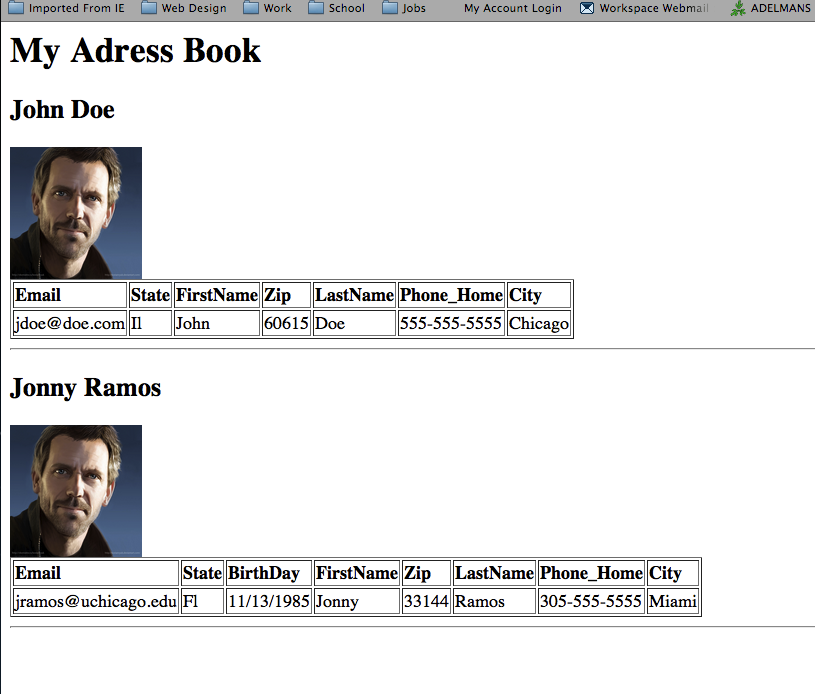
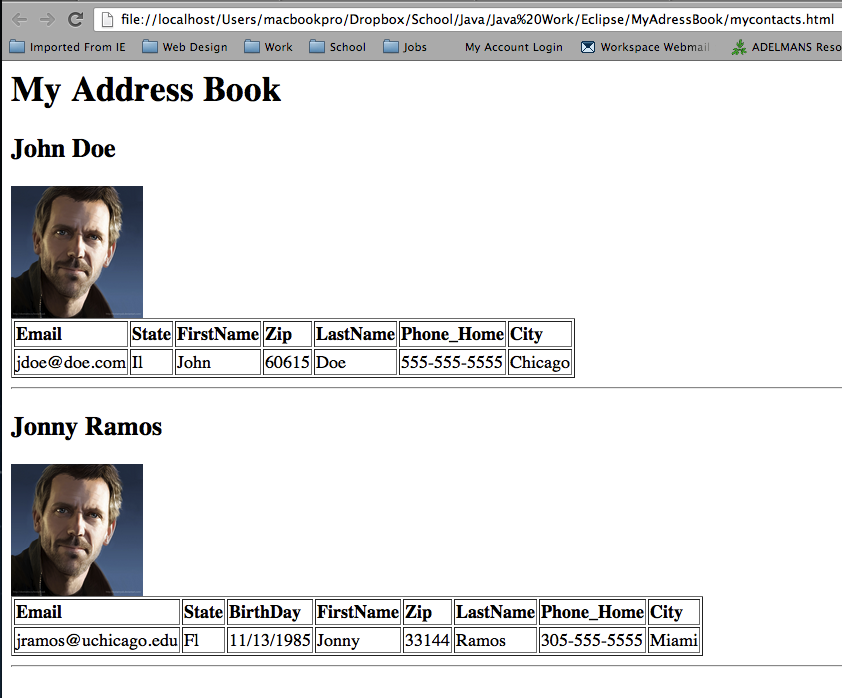
Screenshots

Changed region(s): [[0.0, 0.0, 1.0, 0.9683]]

diff --git a/mycontacts.html b/mycontacts.html
@@ -1,4 +1,4 @@
-<h1>My Adress Book</h1>
+<h1>My Address Book</h1>
 <h2>John Doe</h2>
 <img src='http://d3r6vrqzwazs3l.cloudfront.net/hlaurie.jpg' alt='logo' height='120' width='120'>
 <table border='1'>
